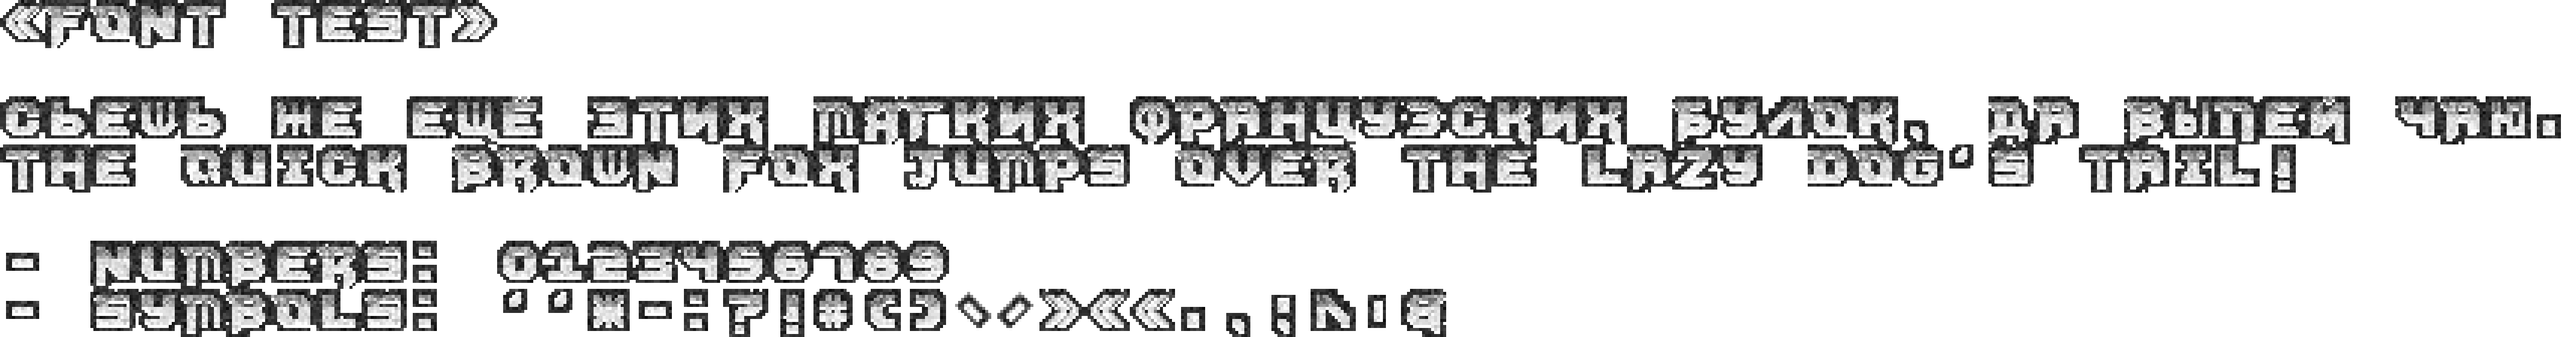
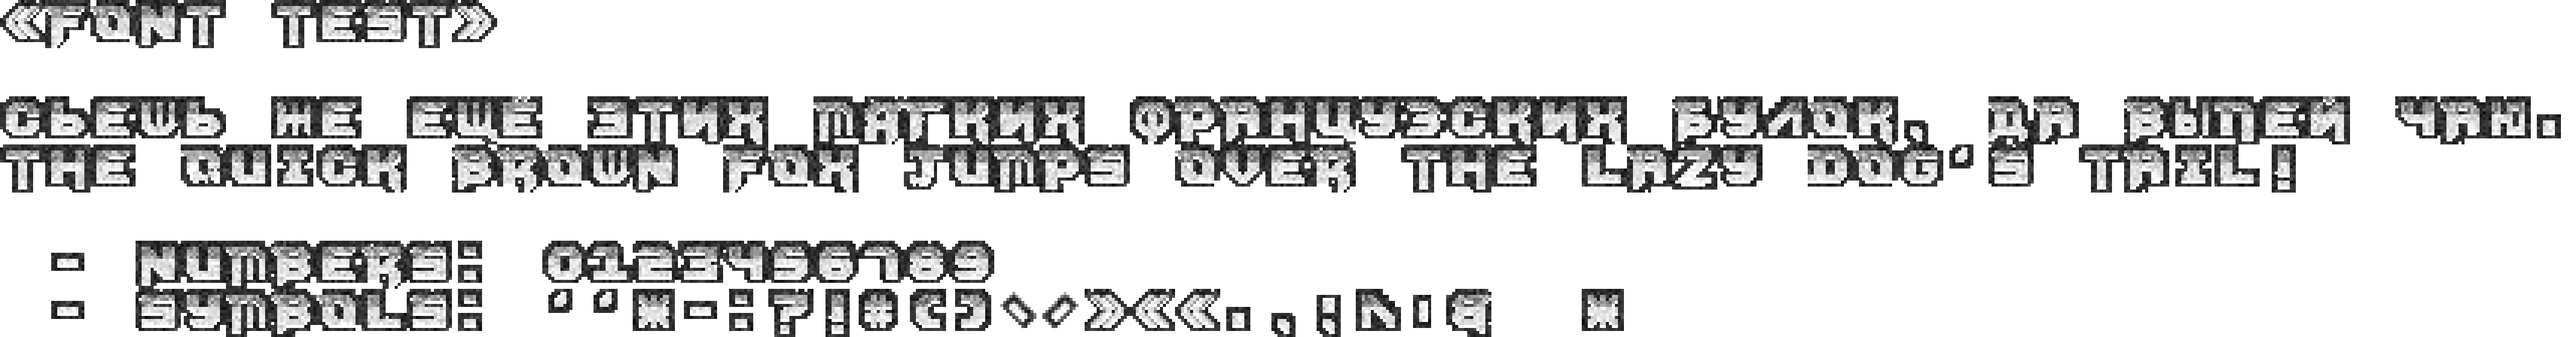
fix strip

Changed region(s): [[0.0, 0.7188, 0.655, 1.0]]

diff --git a/bin/font/renderText.py b/bin/font/renderText.py
@@ -40,7 +40,7 @@ INPUT_TO_FONT = {
     'K': 'К', 'L': 'L', 'M': 'М', 'N': 'N', 'O': 'О',
     'P': 'Р', 'Q': 'Q', 'R': 'R', 'S': 'S', 'T': 'Т',
     'U': 'U', 'V': 'V', 'W': 'Ш', 'X': 'Х', 'Y': 'Y', 'Z': 'Z',
-    'Ъ': 'Ь', 'Ч': '4', '>': '»',
+    'Ъ': 'Ь', 'Ч': '4', '>': '»', '@': '*',
 }
 
 def process_text(text):
@@ -152,16 +152,11 @@ def wrapByWords(text: str, charLimit: int) -> str:
     wrapped_lines = []
 
     for line in lines:
-        # .strip() removes leading/trailing spaces that often cause "doubling"
-        clean_line = line.strip()
-
-        if not clean_line:
+        if not line:
             wrapped_lines.append("")
         else:
-            # fix_sentence_endings=False prevents adding extra spaces after periods
-            # break_long_words=False ensures words aren't cut in half
             wrapped = textwrap.fill(
-                clean_line,
+                line,
                 width=charLimit,
                 fix_sentence_endings=False,
                 break_long_words=False
@@ -264,6 +259,9 @@ def makeGradioApp():
         padding: 40px 10px;
         background: black;
     }
+    footer {
+        visibility: hidden;
+    }
     """
 
     with gr.Blocks(css=css, title="Bunker 3D Fonts", theme=gr.themes.Default(primary_hue=gr.themes.colors.blue)) as demo:
@@ -285,7 +283,7 @@ def makeGradioApp():
                     charLimit = gr.Slider(label="Лимит символов в строке/Characters limit per line", value=40, minimum=10, maximum=300, scale=1, step=1)
                     scale = gr.Slider(label="Размер пикселей/Pixels size", value=6, minimum=1, maximum=10, scale=1, step=1)
         gr.on(
-            triggers=[prompt.change, game.change, scale.change, demo.load],
+            triggers=[prompt.change, game.change, scale.change, charLimit.change, demo.load],
             fn=renderText,
             inputs=[
                 game,
